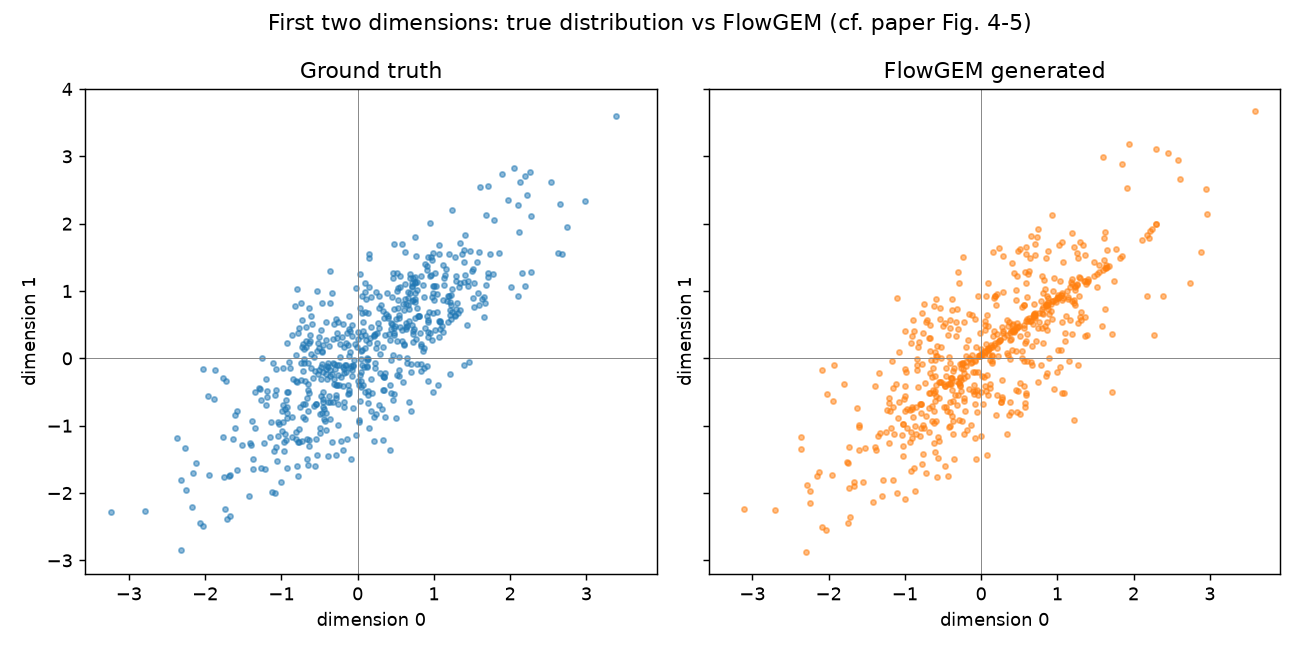
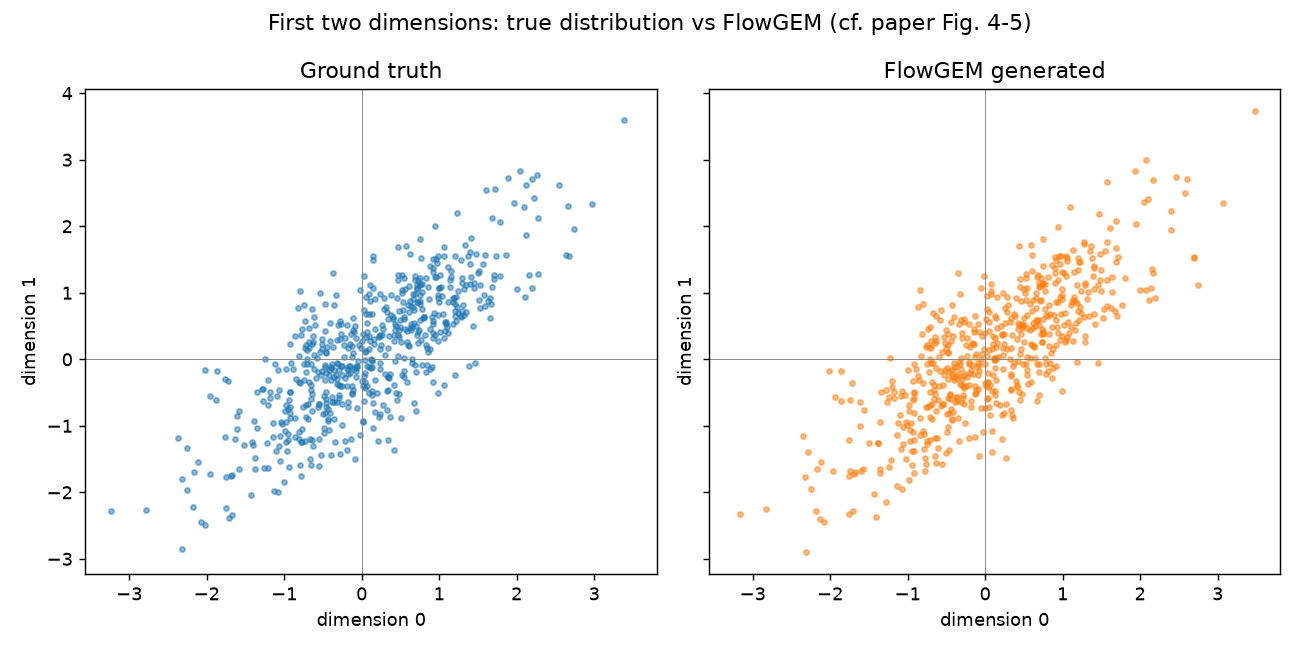
Review and complete docstrings; add Raises sections and core docstring

diff --git a/src/flowgem/core.py b/src/flowgem/core.py
@@ -20,8 +20,48 @@ from flowgem.bandwidth import sigma_heuristic_pairs, evaluate_sigma
 logger = logging.getLogger(__name__)
 
 def sample_flowgem(X0, X_obs, M, T=1000, eta=0.01, grad_tol=0.01, min_iter=10, sigma_fix=None, sigma_vals=None, cv_every=10, dtype=torch.float64):
+    """Evolve a particle ensemble along the approximate Wasserstein gradient flow.
+
+    This is the core sampler. It extracts the distinct missingness patterns,
+    selects the kernel bandwidth, and iteratively updates the particles using
+    a per-pattern local-linear velocity estimate (Equation 9), until the final
+    time ``T`` or early stopping is reached.
+
+    Parameters
+    ----------
+    X0 : torch.Tensor of shape (n, d)
+        Initial particle ensemble (a complete array, no NaN).
+    X_obs : torch.Tensor of shape (n, d)
+        Observed data, with missing entries filled by zero.
+    M : torch.Tensor of shape (n, d)
+        Observation mask; 1 marks an observed entry, 0 a missing one.
+    T : int, default=1000
+        Maximum number of gradient-flow steps.
+    eta : float, default=0.01
+        Step size of the forward-Euler update.
+    grad_tol : float, default=0.01
+        Early-stopping tolerance on the relative gradient norm.
+    min_iter : int, default=10
+        Minimum number of steps before early stopping may trigger.
+    sigma_fix : float or None, default=None
+        Fixed kernel bandwidth. If None, a median heuristic is used (unless
+        ``sigma_vals`` is given).
+    sigma_vals : list of float or None, default=None
+        Candidate bandwidths for cross-validation. If given, the bandwidth is
+        re-selected by CV every ``cv_every`` steps.
+    cv_every : int, default=10
+        How often (in steps) to re-run bandwidth cross-validation.
+    dtype : torch.dtype, default=torch.float64
+        Numerical precision used throughout.
+
+    Returns
+    -------
+    list of numpy.ndarray
+        The per-step snapshots of the particle ensemble; the last element is
+        the final generated sample.
+    """
     # device and dtype are taken from / controlled by the caller,
-    # rather than a module-level global (which the reference used)
+    ...
     device = X0.device 
 
     Xt = X0.clone().to(dtype = dtype, device = device)

diff --git a/src/flowgem/api.py b/src/flowgem/api.py
@@ -89,7 +89,8 @@ class FlowGEM:
         Raises
         ------
         ValueError
-            If the input is not 2D, or contains no NaN (nothing missing).
+            If the input is not 2D, contains no NaN (nothing missing), or
+            contains infinite values.
         """
         # accept numpy arrays, lists, or tensors; work in the chosen dtype
         X = torch.as_tensor(X_incomplete, dtype=self.dtype)
@@ -188,7 +189,11 @@ class FlowGEM:
         numpy.ndarray or list of numpy.ndarray
             The final sample of shape (n, d), or the full trajectory if
             return_trajectory is True.
-            
+
+        Raises
+        ------
+        RuntimeError
+            If called before fit().
         """
         if not hasattr(self, "X0_"):
             raise RuntimeError("Call fit(...) before generate().")

diff --git a/flowgem_demo.py b/flowgem_demo.py
@@ -28,7 +28,7 @@ from flowgem import FlowGEM
 # Demo settings  (fast defaults so it runs quickly in a live meeting)
 # ---------------------------------------------------------------------------
 N = 600          # number of samples
-T = 600          # number of gradient-flow steps (increase for a nicer plot)
+T = 200          # number of gradient-flow steps (increase for a nicer plot)
 SEED = 0
 
 # Show the library's internal logging (demonstrates the logging we added).
